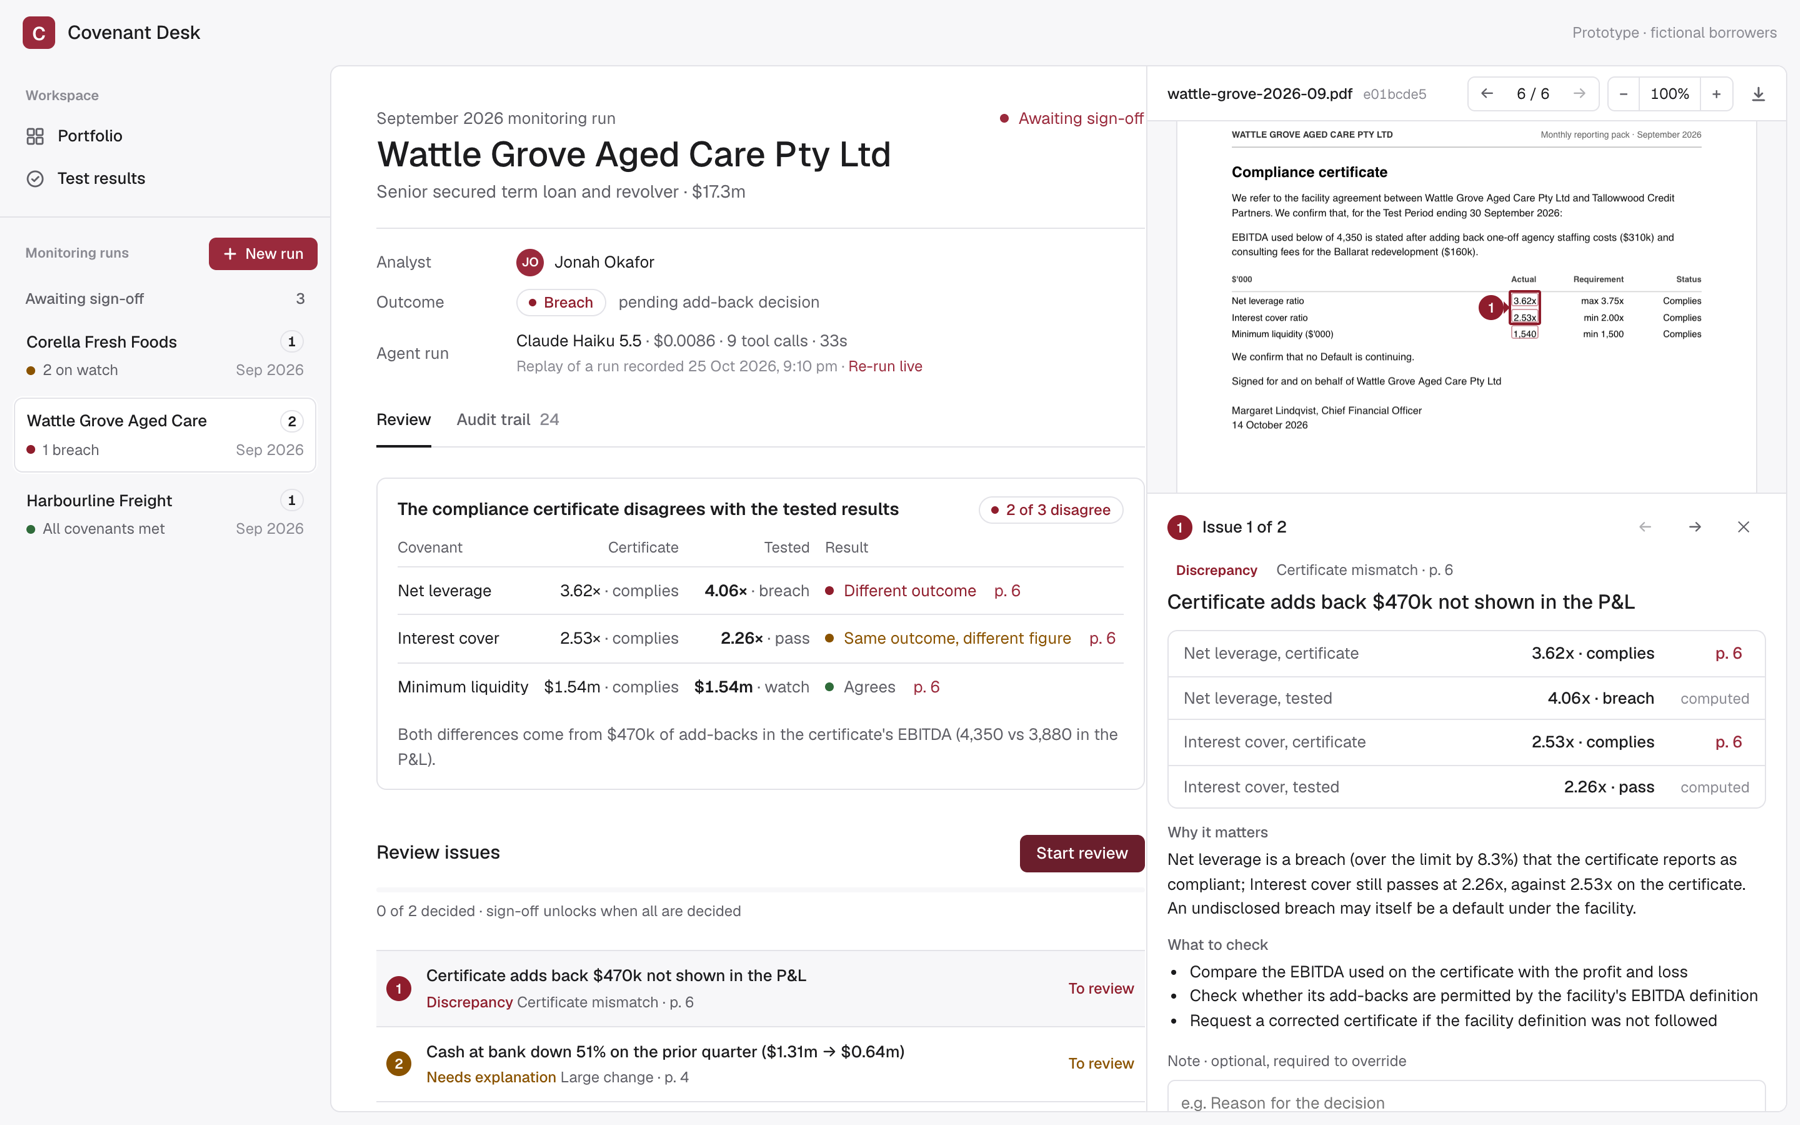
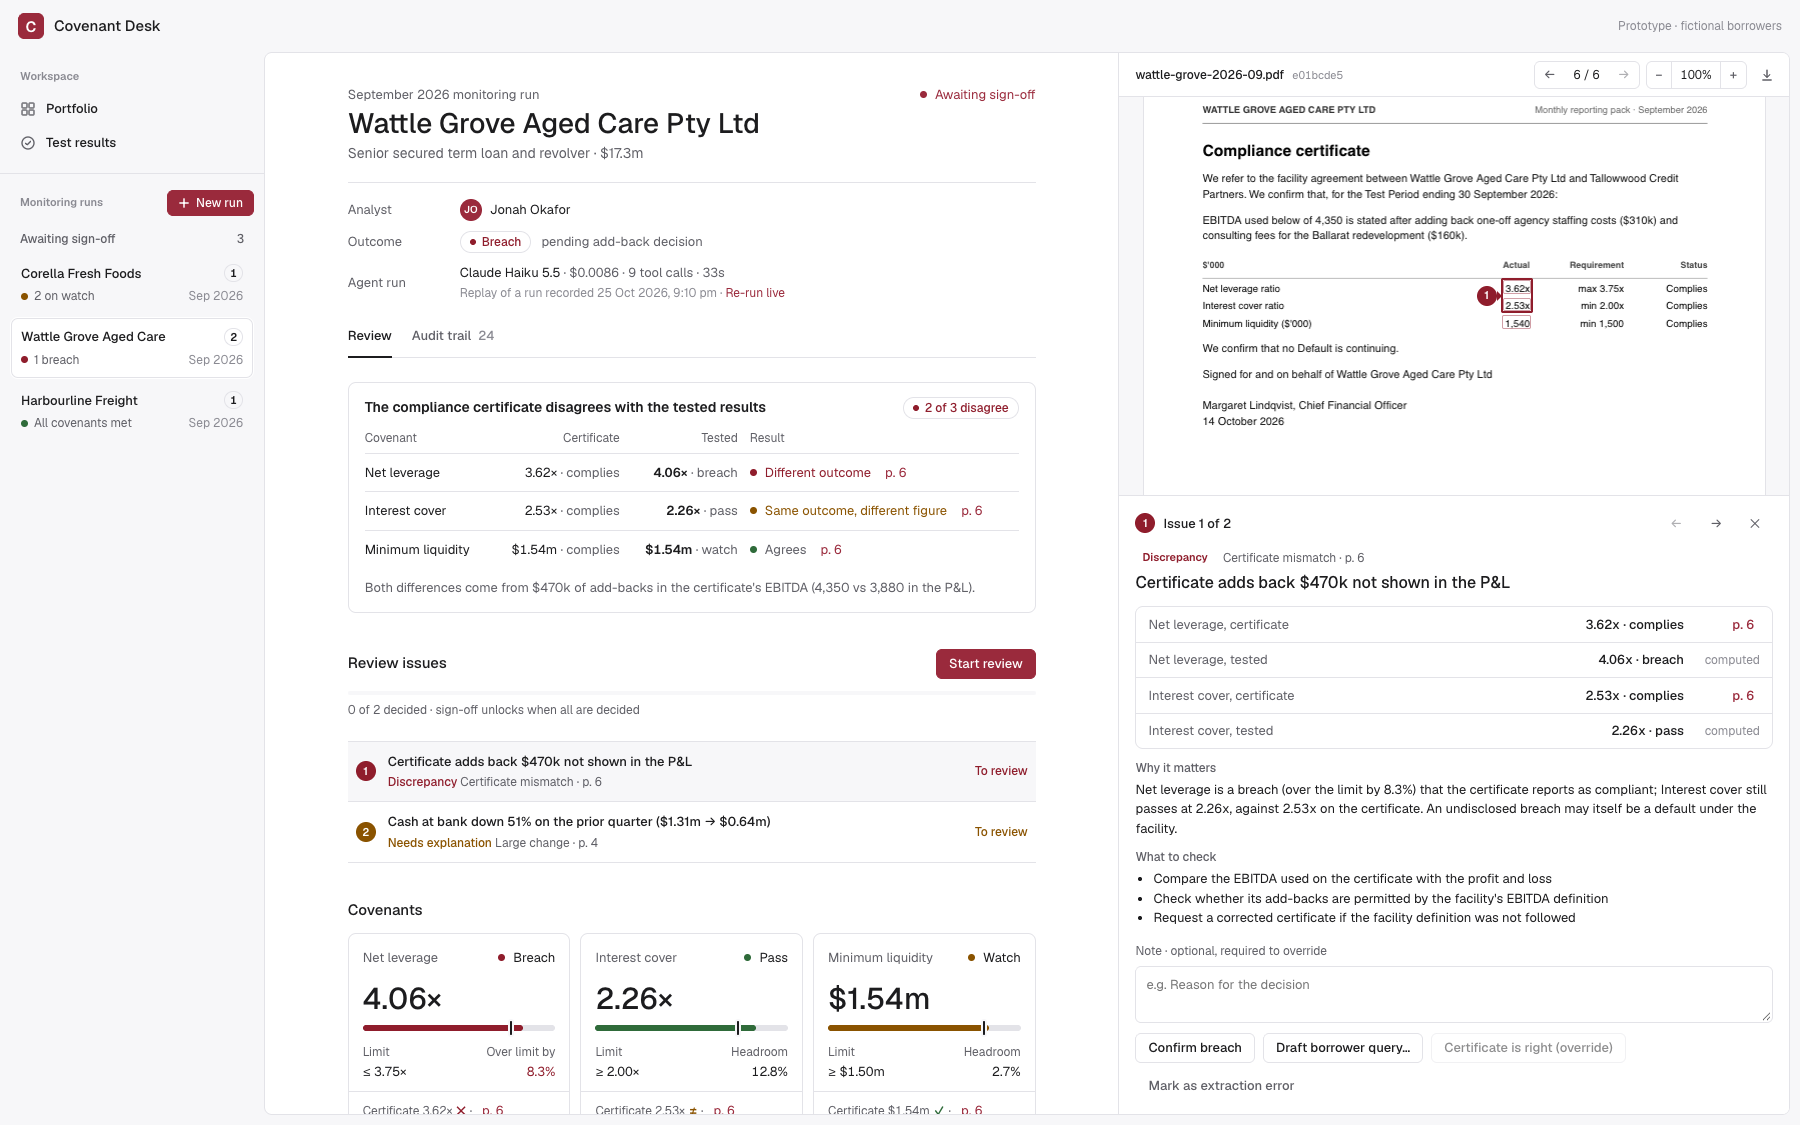
Keep the review column inside its padding
The review column grew to fit the certificate table, because the
table cells don't wrap. The column then ran into the PDF panel, so
Start review and the certificate card touched its border. Give the
column and the card a minmax(0, 1fr) track, let the result label
wrap, and scroll the table on very narrow screens. Retake the run
and issue review screenshots.

diff --git a/apps/web/src/components/review/CertificateBanner.tsx b/apps/web/src/components/review/CertificateBanner.tsx
@@ -40,43 +40,45 @@ export function CertificateBanner({ comparisons, covenants, claims, ebitdaGap, o
         </StatusChip>
       </header>
 
-      <table className={styles.table}>
-        <thead>
-          <tr>
-            <th>Covenant</th>
-            <th className={styles.numeric}>Certificate</th>
-            <th className={styles.numeric}>Tested</th>
-            <th>Result</th>
-          </tr>
-        </thead>
-        <tbody>
-          {rows.map((comparison) => {
-            const level = disagreementLevel(comparison)
-            const covenant = covenants.find((c) => c.metric === comparison.metric)
-            const claim = claims.find((c) => c.metric === comparison.metric)
-            return (
-              <tr key={comparison.metric}>
-                <td>{covenant?.name ?? comparison.metric}</td>
-                <td className={styles.numeric}>
-                  {formatMetric(comparison.metric, comparison.certificateValue)}
-                  <span className={styles.claim}> · {describeCompliance(comparison.claimsCompliance)}</span>
-                </td>
-                <td className={styles.numeric}>
-                  <strong>{formatMetric(comparison.metric, comparison.testedValue)}</strong>
-                  <span className={styles.claim}> · {comparison.testedStatus}</span>
-                </td>
-                <td>
-                  <span className={styles.result} data-level={level}>
-                    <span className={styles.dot} data-level={level} aria-hidden />
-                    {CERTIFICATE_RESULT_LABELS[level]}
-                    {claim && <PageTag page={claim.page} onClick={() => onShowClaim(claim)} />}
-                  </span>
-                </td>
-              </tr>
-            )
-          })}
-        </tbody>
-      </table>
+      <div className={styles.tableScroll}>
+        <table className={styles.table}>
+          <thead>
+            <tr>
+              <th>Covenant</th>
+              <th className={styles.numeric}>Certificate</th>
+              <th className={styles.numeric}>Tested</th>
+              <th>Result</th>
+            </tr>
+          </thead>
+          <tbody>
+            {rows.map((comparison) => {
+              const level = disagreementLevel(comparison)
+              const covenant = covenants.find((c) => c.metric === comparison.metric)
+              const claim = claims.find((c) => c.metric === comparison.metric)
+              return (
+                <tr key={comparison.metric}>
+                  <td>{covenant?.name ?? comparison.metric}</td>
+                  <td className={styles.numeric}>
+                    {formatMetric(comparison.metric, comparison.certificateValue)}
+                    <span className={styles.claim}> · {describeCompliance(comparison.claimsCompliance)}</span>
+                  </td>
+                  <td className={styles.numeric}>
+                    <strong>{formatMetric(comparison.metric, comparison.testedValue)}</strong>
+                    <span className={styles.claim}> · {comparison.testedStatus}</span>
+                  </td>
+                  <td>
+                    <span className={styles.result} data-level={level}>
+                      <span className={styles.dot} data-level={level} aria-hidden />
+                      {CERTIFICATE_RESULT_LABELS[level]}
+                      {claim && <PageTag page={claim.page} onClick={() => onShowClaim(claim)} />}
+                    </span>
+                  </td>
+                </tr>
+              )
+            })}
+          </tbody>
+        </table>
+      </div>
 
       {ebitdaGap && <p className={styles.cause}>{describeEbitdaGap(ebitdaGap, disputed.length)}</p>}
     </section>

diff --git a/apps/web/src/components/review/CertificateBanner.module.css b/apps/web/src/components/review/CertificateBanner.module.css
@@ -1,5 +1,6 @@
 .card {
   display: grid;
+  grid-template-columns: minmax(0, 1fr);
   gap: 10px;
   padding: 14px 16px;
   border: 1px solid var(--rule);
@@ -36,6 +37,10 @@
   background: var(--status-watch);
 }
 
+.tableScroll {
+  overflow-x: auto;
+}
+
 .table {
   width: 100%;
   border-collapse: collapse;
@@ -66,6 +71,11 @@
   padding-right: 0;
 }
 
+/* The result label wraps so the table fits the column instead of scrolling. */
+.table td:last-child {
+  white-space: normal;
+}
+
 .table .numeric {
   text-align: right;
 }
@@ -79,10 +89,18 @@
 }
 
 .result {
-  display: inline-flex;
-  align-items: center;
-  gap: 8px;
   color: var(--status-pass);
+}
+
+/* Inline flow: the dot stays with its label, and the page tag wraps on its own. */
+.result .dot {
+  display: inline-block;
+  margin-right: 8px;
+  vertical-align: 1px;
+}
+
+.result > button {
+  margin-left: 8px;
 }
 
 .result[data-level="compliance"] {

diff --git a/apps/web/src/components/review/RunReview.module.css b/apps/web/src/components/review/RunReview.module.css
@@ -10,6 +10,7 @@
 
 .content {
   display: grid;
+  grid-template-columns: minmax(0, 1fr);
   align-content: start;
   gap: 36px;
   max-width: var(--content-max);
